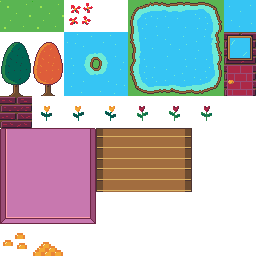
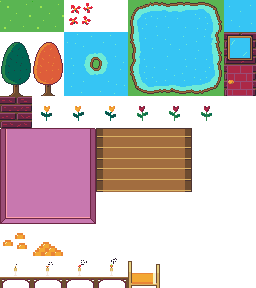
Added table with candle an bed (Thanks Quinn) updated readme

Changed region(s): [[0.0, 0.0, 1.0, 0.625], [0.0, 0.75, 0.625, 1.0], [0.375, 0.6562, 0.75, 0.75]]

diff --git a/README.md b/README.md
@@ -38,6 +38,22 @@ ninja
 ```
 
 ## Testing
+
 ```bash
 meson test --wrap=valgrind 'map memory test'
 ```
+
+## Map making
+
+For mapmaking I used Tiled. Currently the following features are supported in the engine:
+
+- Multiple layers
+- Animations using the tiled animation editor
+- Multiple size tiles should work (tested 32, 16 and 128px)
+- Primitive map loading using objects with a string property called "warp" and the value is the name of the map.tmj (alpha still needs a lot of work) 
+
+## Thanks to the following projects for their awesome tools/libraries
+
+- [Tiled](https://www.mapeditor.org/)
+- [Pixelorama](https://github.com/Orama-Interactive/Pixelorama)
+- [SDL](https://www.libsdl.org/)
